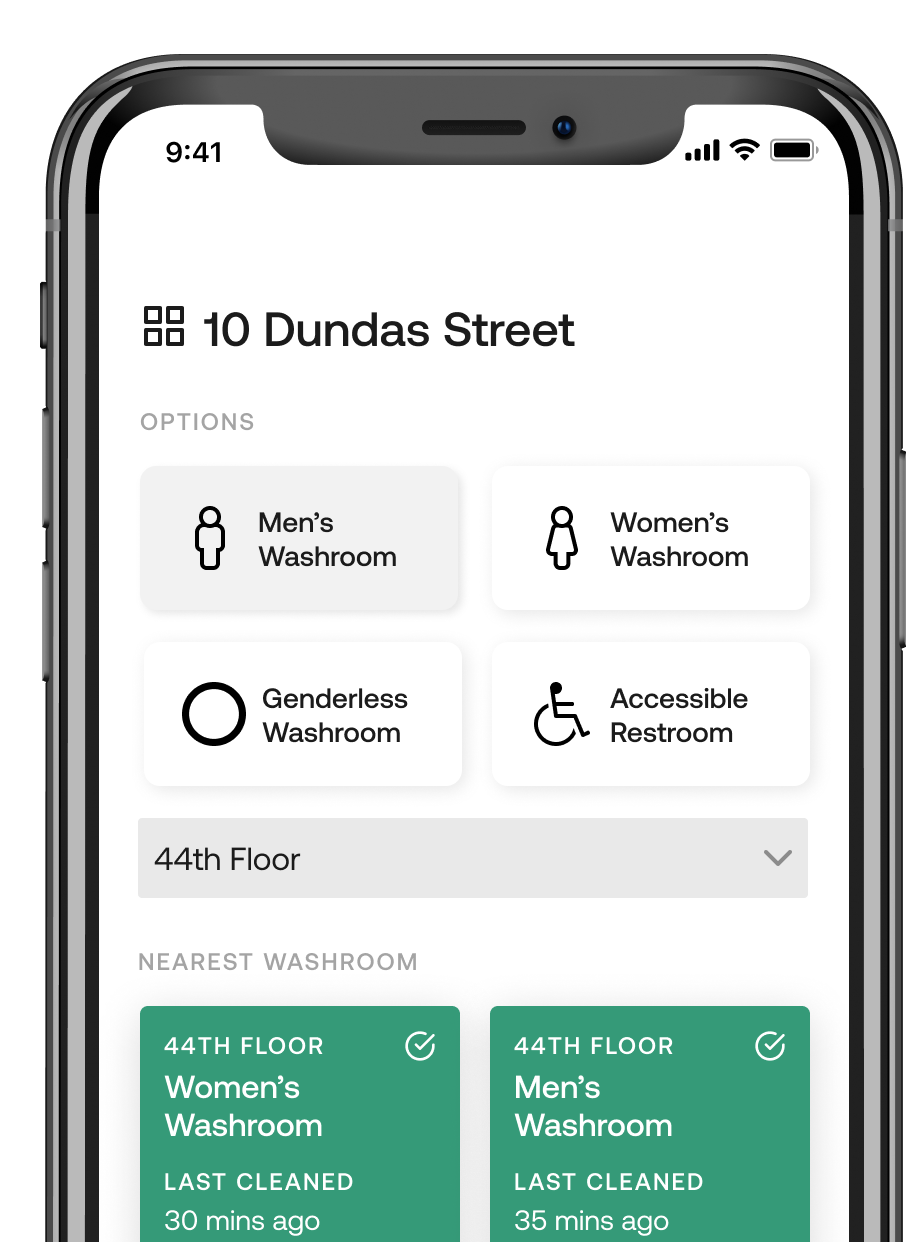
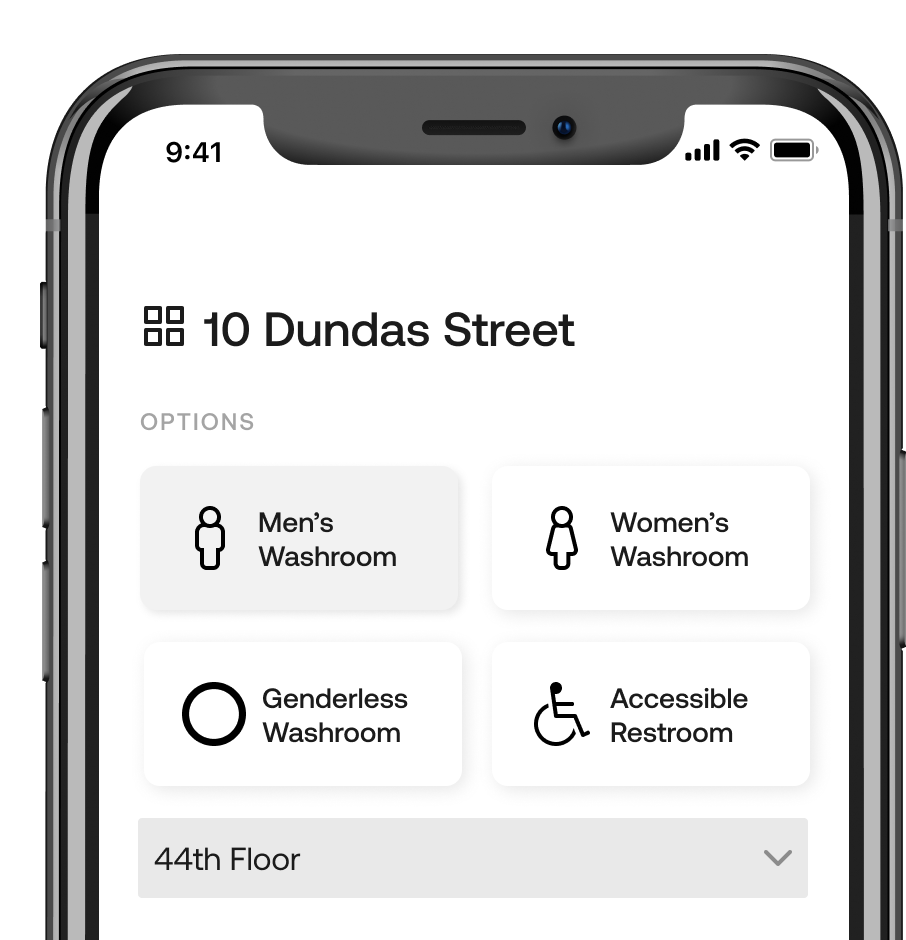
Update image

diff --git a/content/project/mero-comfort/index.html b/content/project/mero-comfort/index.html
@@ -20,9 +20,7 @@ weight: 50
             <div class="col-lg-5">
                 <h2 class="h3">Description of the Company</h2>
                 <p>
-                    Mero provides their proprietary sensor technology and their
-                    accompanying software as a service (SaaS) to building
-                    managers.
+
                 </p>
             </div>
         </div>
@@ -35,13 +33,7 @@ weight: 50
             <div class="col-lg-5 order-lg-1">
                 <h2 class="h3">Challenges</h2>
                 <p>
-                    Mero had a prototype that was gaining traction with
-                    customers and realized strong demand in the marketplace.
-                    They approached Alora to develop a market-ready version of
-                    their product that could be commercialized and adhere to the
-                    drastic demand they were receiving. Encompassing their early
-                    customers’ feedback and building a more scalable system was
-                    a priority.
+                    Project completed in 4 weeks, user facing so needed nice user interface, changing requirements and mocks.
                 </p>
             </div>
         </div>
@@ -54,14 +46,7 @@ weight: 50
             <div class="col-lg-5">
                 <h2 class="h3">Results</h2>
                 <p>
-                    We designed the entire stack from the ground up, using AWS
-                    for the backend infrastructure and Laravel for the web
-                    application. The software allows for the provisioning of new
-                    sensors, setting staff schedules and provides value to
-                    building managers by optimizing cleaner visits and
-                    visualizing efficiency metrics. This successful launch
-                    allowed them to sign on additional customers and raise VC
-                    investment.
+
                 </p>
             </div>
         </div>
